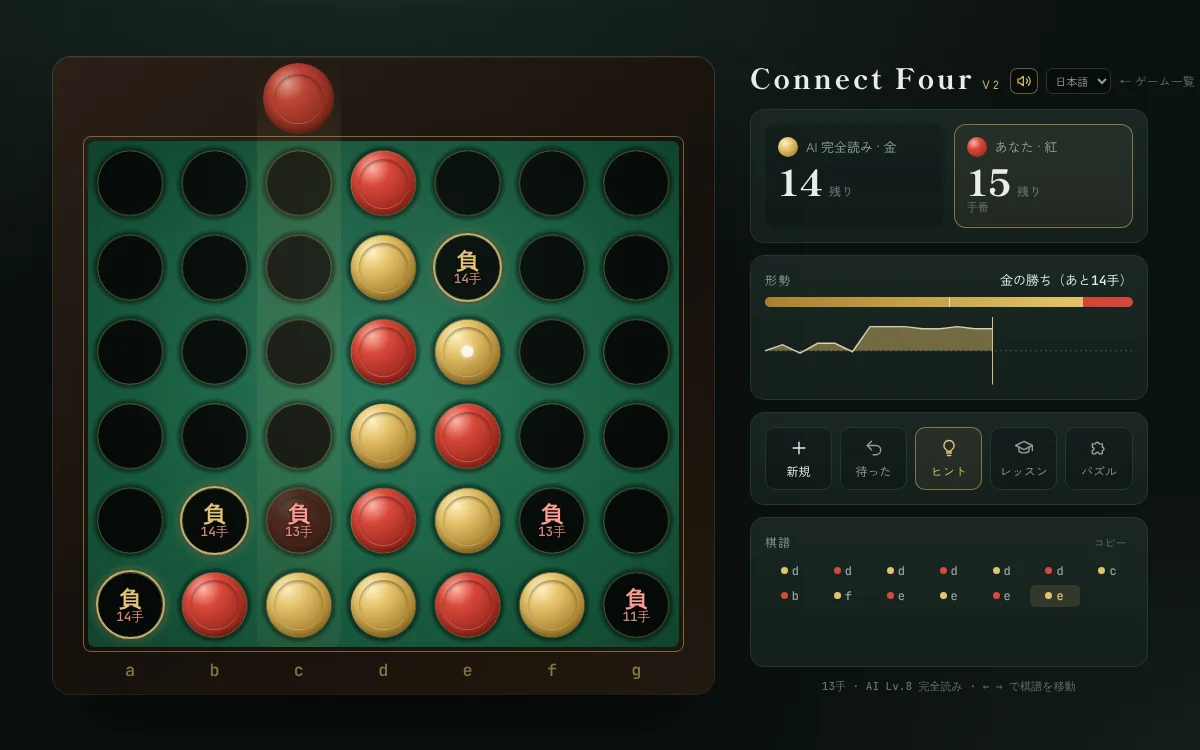
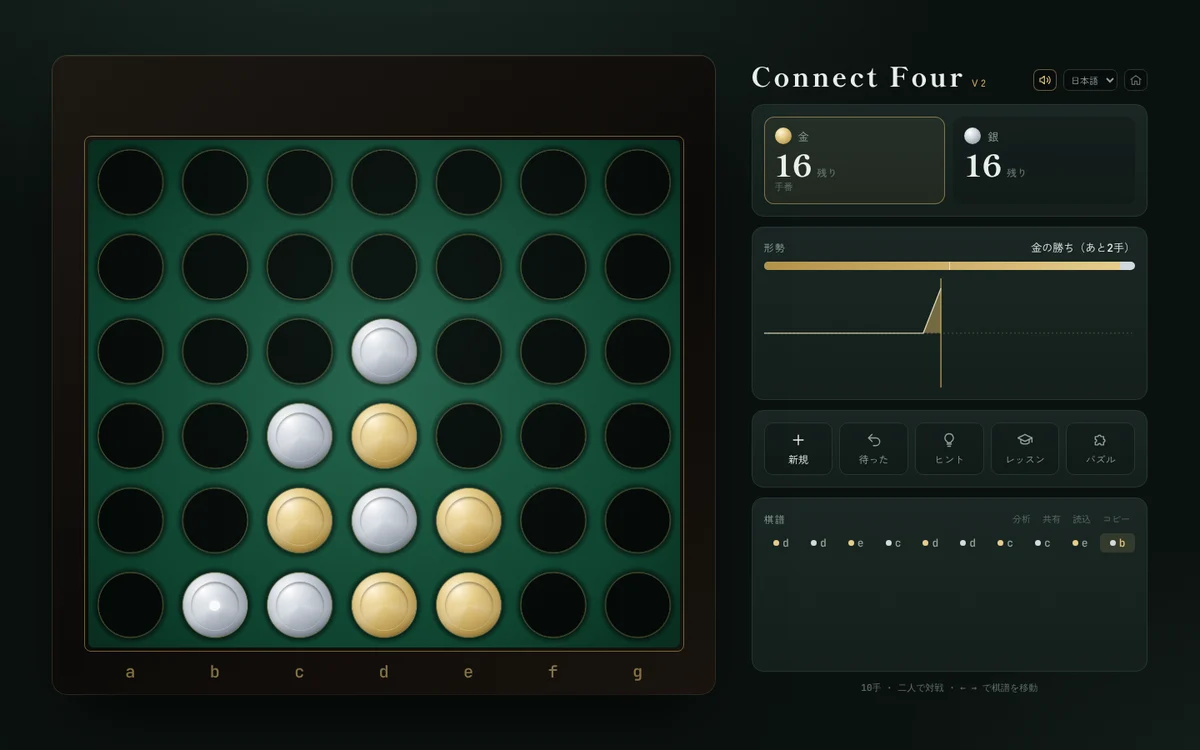
Connect Four: luxury gold vs platinum coins with metallic sheen, deeper felt and lacquer frame; UI accents, graph, threats and confetti matched; list thumbnail updated
Claude-Session: https://claude.ai/code/session_01Ky461YoVpACBBys6RwWYFn

diff --git a/connect4/i18n.js b/connect4/i18n.js
@@ -7,13 +7,13 @@ ja: { 'tab.lesson': 'レッスン', 'tab.puzzle': 'パズル',
   'share': '共有', 'share.title': '棋譜をURLで共有', 'share.copied': '共有URLをコピーしました',
   'paste': '読込', 'paste.title': '棋譜を読み込む', 'paste.desc': '棋譜（例：4453… または dd ec…）か共有URLを貼り付けてください。読み込むと二人対戦モードで開き、どこからでも打ち直せます。', 'paste.load': '読み込む', 'paste.bad': '{n}手目が打てない手です', 'paste.invalid': '棋譜を読み取れませんでした', 'paste.loaded': '{n}手の棋譜を読み込みました',
   'daily.title': '今日の一問', 'daily.streak': '連続{n}日', 'daily.best': '最高{n}日', 'daily.go': '挑戦', 'pz.labels': '盤上の数字は、その列から何手で勝てるかです。',
-  'meta.title': 'Connect Four V2 — コネクトフォー', 'back': 'ゲーム一覧', 'p1': '金', 'p2': '紅', 'left': '残り', 'you': 'あなた', 'defender': '守り手（完全読み）',
+  'meta.title': 'Connect Four V2 — コネクトフォー', 'back': 'ゲーム一覧', 'p1': '金', 'p2': '銀', 'left': '残り', 'you': 'あなた', 'defender': '守り手（完全読み）',
   'eval': '形勢', 'kifu': '棋譜', 'copy': 'コピー', 'copy.title': '棋譜をコピー', 'copied': '棋譜をコピーしました', 'nokifu': '棋譜なし', 'kifu.empty': 'まだ手がありません',
   'btn.new': '新規', 'btn.new.title': '新しい対局', 'btn.undo': '待った', 'btn.undo.title': '待った (Ctrl+Z)', 'btn.hint': 'ヒント', 'btn.hint.title': 'ヒント（各列の読み）',
   'btn.lesson': 'レッスン', 'btn.lesson.title': 'レッスン（考え方を学ぶ）', 'btn.puzzle': 'パズル', 'btn.puzzle.title': '詰めコネクトフォー', 'btn.sound.title': '効果音',
   'review.viewing': '{n}手目を確認中（全{m}手）', 'review.resume': 'ここから打つ', 'review.latest': '最新局面へ', 'review.hintResume': '過去の局面です。「ここから打つ」で再開できます',
   'ng.title': '新しい対局', 'ng.mode': '対戦形式', 'ng.ai': 'AIと対戦', 'ng.pvp': '二人で対戦', 'ng.watch': 'AI同士', 'ng.lesson': 'レッスン', 'ng.puzzle': 'パズル',
-  'ng.color': 'あなたの手番', 'ng.first': '先手（金）', 'ng.second': '後手（紅）', 'ng.random': 'ランダム', 'ng.level': 'AIの強さ', 'ng.level1': '先手AIの強さ', 'ng.level2': '後手AIの強さ',
+  'ng.color': 'あなたの手番', 'ng.first': '先手（金）', 'ng.second': '後手（銀）', 'ng.random': 'ランダム', 'ng.level': 'AIの強さ', 'ng.level1': '先手AIの強さ', 'ng.level2': '後手AIの強さ',
   'ng.display': '表示', 'opt.eval': '形勢表示', 'opt.last': '最終手', 'opt.anim': 'アニメーション', 'opt.threat': '脅威マスを表示', 'close': '閉じる', 'start': '対局開始',
   'ng.toLessons': 'レッスンを選ぶ', 'ng.toPuzzles': 'パズルを選ぶ',
   'res.review': '盤面を見る', 'res.again': 'もう一局', 'res.draw': '引き分け', 'res.youWin': 'あなたの勝ち', 'res.aiWin': 'AIの勝ち', 'res.pWin': '{c}の勝ち',
@@ -55,13 +55,13 @@ en: { 'tab.lesson': 'Lessons', 'tab.puzzle': 'Puzzles',
   'share': 'Share', 'share.title': 'Share the game as a URL', 'share.copied': 'Share URL copied',
   'paste': 'Load', 'paste.title': 'Load a game', 'paste.desc': 'Paste a move record (e.g. 4453… or dd ec…) or a share URL. It opens in 2-player mode so you can replay from any move.', 'paste.load': 'Load', 'paste.bad': 'Move {n} is illegal', 'paste.invalid': 'Could not read the move record', 'paste.loaded': 'Loaded {n} moves',
   'daily.title': 'Daily puzzle', 'daily.streak': '{n}-day streak', 'daily.best': 'best {n}', 'daily.go': 'Play', 'pz.labels': 'The numbers show how many moves each column needs to win.',
-  'meta.title': 'Connect Four V2', 'back': 'All games', 'p1': 'Gold', 'p2': 'Ruby', 'left': 'left', 'you': 'You', 'defender': 'Defender (perfect)',
+  'meta.title': 'Connect Four V2', 'back': 'All games', 'p1': 'Gold', 'p2': 'Silver', 'left': 'left', 'you': 'You', 'defender': 'Defender (perfect)',
   'eval': 'Evaluation', 'kifu': 'Moves', 'copy': 'Copy', 'copy.title': 'Copy the move record', 'copied': 'Move record copied', 'nokifu': 'No moves', 'kifu.empty': 'No moves yet',
   'btn.new': 'New', 'btn.new.title': 'New game', 'btn.undo': 'Undo', 'btn.undo.title': 'Undo (Ctrl+Z)', 'btn.hint': 'Hint', 'btn.hint.title': 'Hint (solver verdict per column)',
   'btn.lesson': 'Lessons', 'btn.lesson.title': 'Lessons (learn the ideas)', 'btn.puzzle': 'Puzzles', 'btn.puzzle.title': 'Win-in-N puzzles', 'btn.sound.title': 'Sound effects',
   'review.viewing': 'Reviewing move {n} of {m}', 'review.resume': 'Play from here', 'review.latest': 'Back to latest', 'review.hintResume': 'This is a past position. Use "Play from here" to continue',
   'ng.title': 'New game', 'ng.mode': 'Mode', 'ng.ai': 'vs AI', 'ng.pvp': '2 players', 'ng.watch': 'AI vs AI', 'ng.lesson': 'Lessons', 'ng.puzzle': 'Puzzles',
-  'ng.color': 'You play', 'ng.first': 'First (Gold)', 'ng.second': 'Second (Ruby)', 'ng.random': 'Random', 'ng.level': 'AI strength', 'ng.level1': 'First AI strength', 'ng.level2': 'Second AI strength',
+  'ng.color': 'You play', 'ng.first': 'First (Gold)', 'ng.second': 'Second (Silver)', 'ng.random': 'Random', 'ng.level': 'AI strength', 'ng.level1': 'First AI strength', 'ng.level2': 'Second AI strength',
   'ng.display': 'Display', 'opt.eval': 'Evaluation', 'opt.last': 'Last move', 'opt.anim': 'Animation', 'opt.threat': 'Show threats', 'close': 'Close', 'start': 'Start',
   'ng.toLessons': 'Choose a lesson', 'ng.toPuzzles': 'Choose a puzzle',
   'res.review': 'View board', 'res.again': 'Play again', 'res.draw': 'Draw', 'res.youWin': 'You win!', 'res.aiWin': 'AI wins', 'res.pWin': '{c} wins',
@@ -103,13 +103,13 @@ zh: { 'tab.lesson': '课程', 'tab.puzzle': '谜题',
   'share': '分享', 'share.title': '用链接分享棋谱', 'share.copied': '已复制分享链接',
   'paste': '导入', 'paste.title': '导入棋谱', 'paste.desc': '粘贴棋谱（如 4453… 或 dd ec…）或分享链接。导入后以双人模式打开，可从任意一步重新下。', 'paste.load': '导入', 'paste.bad': '第{n}步不合法', 'paste.invalid': '无法识别棋谱', 'paste.loaded': '已导入{n}步棋谱',
   'daily.title': '每日一题', 'daily.streak': '连续{n}天', 'daily.best': '最高{n}天', 'daily.go': '挑战', 'pz.labels': '棋盘上的数字表示从该列下需要几手获胜。',
-  'meta.title': 'Connect Four V2 — 四子棋', 'back': '游戏列表', 'p1': '金', 'p2': '红', 'left': '剩余', 'you': '你', 'defender': '防守方（完全计算）',
+  'meta.title': 'Connect Four V2 — 四子棋', 'back': '游戏列表', 'p1': '金', 'p2': '银', 'left': '剩余', 'you': '你', 'defender': '防守方（完全计算）',
   'eval': '形势', 'kifu': '棋谱', 'copy': '复制', 'copy.title': '复制棋谱', 'copied': '已复制棋谱', 'nokifu': '无棋谱', 'kifu.empty': '还没有落子',
   'btn.new': '新局', 'btn.new.title': '新对局', 'btn.undo': '悔棋', 'btn.undo.title': '悔棋 (Ctrl+Z)', 'btn.hint': '提示', 'btn.hint.title': '提示（每列的计算结果）',
   'btn.lesson': '课程', 'btn.lesson.title': '课程（学习思路）', 'btn.puzzle': '谜题', 'btn.puzzle.title': '四子棋残局题', 'btn.sound.title': '音效',
   'review.viewing': '正在查看第{n}手（共{m}手）', 'review.resume': '从这里继续', 'review.latest': '回到最新局面', 'review.hintResume': '这是过去的局面。点「从这里继续」即可继续',
   'ng.title': '新对局', 'ng.mode': '对战模式', 'ng.ai': '对战AI', 'ng.pvp': '双人对战', 'ng.watch': 'AI对AI', 'ng.lesson': '课程', 'ng.puzzle': '谜题',
-  'ng.color': '你的顺序', 'ng.first': '先手（金）', 'ng.second': '后手（红）', 'ng.random': '随机', 'ng.level': 'AI强度', 'ng.level1': '先手AI强度', 'ng.level2': '后手AI强度',
+  'ng.color': '你的顺序', 'ng.first': '先手（金）', 'ng.second': '后手（银）', 'ng.random': '随机', 'ng.level': 'AI强度', 'ng.level1': '先手AI强度', 'ng.level2': '后手AI强度',
   'ng.display': '显示', 'opt.eval': '形势显示', 'opt.last': '最后一手', 'opt.anim': '动画', 'opt.threat': '显示威胁格', 'close': '关闭', 'start': '开始对局',
   'ng.toLessons': '选择课程', 'ng.toPuzzles': '选择谜题',
   'res.review': '查看棋盘', 'res.again': '再来一局', 'res.draw': '平局', 'res.youWin': '你赢了', 'res.aiWin': 'AI获胜', 'res.pWin': '{c}方获胜',
@@ -132,7 +132,7 @@ zh: { 'tab.lesson': '课程', 'tab.puzzle': '谜题',
   'ls.threat.goal': '制造能带来胜利的威胁。', 'ls.threat.why': '下在 {m} 列会产生新的威胁（虚线圆圈）。这是唯一能赢的着法。', 'ls.threat.hint': '找一步下完后会出现“再下一子就连成四子”的空格的着法。虚线是你现有的威胁。',
   'ls.block.title': '挡住对手的威胁', 'ls.block.sub': '能下的胜利格一定要堵',
   'ls.block.intro': '<p>当对手有<b>马上就能下的胜利格</b>时，必须先把它堵住，其他好棋都要往后放。</p><p>反过来，如果在对手胜利格的<b>正下方</b>落子，对手下一手就能下在那里。</p><p class="note">不看漏对手的威胁，是变强的第一步。</p>',
-  'ls.block.goal': '找出不会输的一手。', 'ls.block.why': '{m} 列是对手马上就能连成四子的格子。不堵住的话下一手就会输。', 'ls.block.hint': '红色虚线是对手的威胁。哪一个现在就能下？',
+  'ls.block.goal': '找出不会输的一手。', 'ls.block.why': '{m} 列是对手马上就能连成四子的格子。不堵住的话下一手就会输。', 'ls.block.hint': '银色虚线是对手的威胁。哪一个现在就能下？',
   'ls.parity.title': '奇数行・偶数行理论', 'ls.parity.sub': '靠逼着（楚茨文格）取胜',
   'ls.parity.intro': '<p>棋盘有 7列×6行＝42格。如果后手总是下在先手棋子的<b>正上方</b>，后手就能拿到所有<b>偶数行（从下数第2・4・6行）</b>。先手要靠<b>奇数行（第1・3・5行）</b>的威胁来打破这一点。</p><p>所以在残局中，<b>先手的奇数行威胁</b>、<b>后手的偶数行威胁</b>最强：其他列填满后，对手迟早不得不下在威胁的正下方（逼着）。</p><p class="note">要制造威胁，就做在适合自己的行上。</p>',
   'ls.parity.goal': '在适合自己的行上制造威胁。', 'ls.parity.why': '下在 {m} 列会在对{c}方有利的行上形成威胁。随着其他列填满，对手终将不得不下在威胁的正下方。', 'ls.parity.hint': '先手瞄准奇数行（第1・3・5行），后手瞄准偶数行（第2・4・6行）的威胁。',
@@ -151,13 +151,13 @@ ko: { 'tab.lesson': '레슨', 'tab.puzzle': '퍼즐',
   'share': '공유', 'share.title': '기보를 URL로 공유', 'share.copied': '공유 URL을 복사했습니다',
   'paste': '불러오기', 'paste.title': '기보 불러오기', 'paste.desc': '기보(예: 4453… 또는 dd ec…)나 공유 URL을 붙여 넣으세요. 2인 대전 모드로 열려 어느 수에서든 다시 둘 수 있습니다.', 'paste.load': '불러오기', 'paste.bad': '{n}수째가 둘 수 없는 수입니다', 'paste.invalid': '기보를 읽을 수 없습니다', 'paste.loaded': '{n}수 기보를 불러왔습니다',
   'daily.title': '오늘의 문제', 'daily.streak': '{n}일 연속', 'daily.best': '최고 {n}일', 'daily.go': '도전', 'pz.labels': '판 위의 숫자는 그 열에서 몇 수 만에 이길 수 있는지입니다.',
-  'meta.title': 'Connect Four V2 — 커넥트 포', 'back': '게임 목록', 'p1': '금', 'p2': '홍', 'left': '남음', 'you': '나', 'defender': '수비(완전 해석)',
+  'meta.title': 'Connect Four V2 — 커넥트 포', 'back': '게임 목록', 'p1': '금', 'p2': '은', 'left': '남음', 'you': '나', 'defender': '수비(완전 해석)',
   'eval': '형세', 'kifu': '기보', 'copy': '복사', 'copy.title': '기보 복사', 'copied': '기보를 복사했습니다', 'nokifu': '기보 없음', 'kifu.empty': '아직 둔 수가 없습니다',
   'btn.new': '새 게임', 'btn.new.title': '새 대국', 'btn.undo': '무르기', 'btn.undo.title': '무르기 (Ctrl+Z)', 'btn.hint': '힌트', 'btn.hint.title': '힌트 (열마다 읽은 결과)',
   'btn.lesson': '레슨', 'btn.lesson.title': '레슨 (사고방식 배우기)', 'btn.puzzle': '퍼즐', 'btn.puzzle.title': '커넥트 포 박보', 'btn.sound.title': '효과음',
   'review.viewing': '{n}수째 확인 중 (전체 {m}수)', 'review.resume': '여기서 두기', 'review.latest': '최신 국면으로', 'review.hintResume': '지난 국면입니다. "여기서 두기"로 이어서 둘 수 있습니다',
   'ng.title': '새 대국', 'ng.mode': '대전 방식', 'ng.ai': 'AI와 대전', 'ng.pvp': '2인 대전', 'ng.watch': 'AI끼리', 'ng.lesson': '레슨', 'ng.puzzle': '퍼즐',
-  'ng.color': '내 차례', 'ng.first': '선수 (금)', 'ng.second': '후수 (홍)', 'ng.random': '랜덤', 'ng.level': 'AI 강도', 'ng.level1': '선수 AI 강도', 'ng.level2': '후수 AI 강도',
+  'ng.color': '내 차례', 'ng.first': '선수 (금)', 'ng.second': '후수 (은)', 'ng.random': '랜덤', 'ng.level': 'AI 강도', 'ng.level1': '선수 AI 강도', 'ng.level2': '후수 AI 강도',
   'ng.display': '표시', 'opt.eval': '형세 표시', 'opt.last': '마지막 수', 'opt.anim': '애니메이션', 'opt.threat': '위협 칸 표시', 'close': '닫기', 'start': '대국 시작',
   'ng.toLessons': '레슨 고르기', 'ng.toPuzzles': '퍼즐 고르기',
   'res.review': '판 보기', 'res.again': '한 판 더', 'res.draw': '무승부', 'res.youWin': '승리!', 'res.aiWin': 'AI 승리', 'res.pWin': '{c} 승리',

diff --git a/connect4/index.html b/connect4/index.html
@@ -19,11 +19,11 @@
 :root{
   --bg:#0b1110; --bg2:#121b19; --panel:#141f1c; --panel2:#1a2724; --line:#26372f;
   --text:#e8eee9; --muted:#8fa39a; --dim:#5d7068;
-  --felt:#1d6b4c; --felt2:#155238; --felt3:#0f3f2b;
+  --felt:#17573f; --felt2:#0e412e; --felt3:#07291c;
   --brass:#c9a961; --brass2:#8e7440;
   --accent:#e2c275; --red:#ff6b5b; --good:#7fd6a4;
-  --gold1:#fff1c2; --gold2:#e5c36c; --gold3:#a9812f; --gold4:#6d5020;
-  --ruby1:#ffb5a8; --ruby2:#d8483a; --ruby3:#9a271d; --ruby4:#561109;
+  --gold1:#fff6dc; --gold2:#e6cd8c; --gold3:#b39249; --gold4:#5e4720;
+  --ruby1:#ffffff; --ruby2:#d4d9e0; --ruby3:#8f97a3; --ruby4:#3c424b;   /* platinum (second player) */
   --vh: 100vh;
   --pad: clamp(28px, 7vmin, 100px);
   --gap: clamp(24px, 3vw, 48px);
@@ -64,7 +64,7 @@ button{font:inherit;color:inherit;cursor:pointer;border:none;background:none}
   position:relative;width:var(--fw);height:var(--fh);
   padding:calc(var(--cell) * var(--top)) calc(var(--cell)*0.42) calc(var(--cell)*0.55);
   border-radius:18px;
-  background:linear-gradient(145deg,#2a2018 0%,#16100b 55%,#22190f 100%);
+  background:linear-gradient(145deg,#1d1813 0%,#0c0a08 55%,#19140e 100%);
   box-shadow:0 40px 80px -30px rgba(0,0,0,.85),0 0 0 1px rgba(201,169,97,.25),inset 0 1px 0 rgba(255,255,255,.06);
   user-select:none;-webkit-user-select:none;touch-action:manipulation;
 }
@@ -76,8 +76,8 @@ button{font:inherit;color:inherit;cursor:pointer;border:none;background:none}
 .discs{position:absolute;inset:0}
 .disc{position:absolute;width:calc(var(--cell)*0.84);height:calc(var(--cell)*0.84);margin:calc(var(--cell)*0.08);border-radius:50%;will-change:transform}
 .disc::before{content:"";position:absolute;inset:16%;border-radius:50%;box-shadow:inset 0 2px 3px rgba(0,0,0,.35),0 1px 0 rgba(255,255,255,.25)}
-.disc.p1{background:radial-gradient(circle at 34% 28%,var(--gold1) 0%,var(--gold2) 26%,var(--gold3) 68%,var(--gold4) 100%);box-shadow:inset 0 -4px 8px rgba(0,0,0,.35)}
-.disc.p2{background:radial-gradient(circle at 34% 28%,var(--ruby1) 0%,var(--ruby2) 26%,var(--ruby3) 68%,var(--ruby4) 100%);box-shadow:inset 0 -4px 8px rgba(0,0,0,.4)}
+.disc.p1{background:conic-gradient(from 200deg at 50% 50%,rgba(255,255,255,0) 0deg,rgba(255,255,255,.22) 40deg,rgba(255,255,255,0) 90deg,rgba(255,255,255,0) 220deg,rgba(255,255,255,.14) 260deg,rgba(255,255,255,0) 300deg),radial-gradient(circle at 34% 28%,var(--gold1) 0%,var(--gold2) 26%,var(--gold3) 68%,var(--gold4) 100%);box-shadow:inset 0 -4px 8px rgba(0,0,0,.35),inset 0 0 0 1.5px rgba(255,240,200,.35)}
+.disc.p2{background:conic-gradient(from 200deg at 50% 50%,rgba(255,255,255,0) 0deg,rgba(255,255,255,.28) 40deg,rgba(255,255,255,0) 90deg,rgba(255,255,255,0) 220deg,rgba(255,255,255,.18) 260deg,rgba(255,255,255,0) 300deg),radial-gradient(circle at 34% 28%,var(--ruby1) 0%,var(--ruby2) 26%,var(--ruby3) 68%,var(--ruby4) 100%);box-shadow:inset 0 -4px 8px rgba(0,0,0,.4),inset 0 0 0 1.5px rgba(255,255,255,.4)}
 .disc.last::after{content:"";position:absolute;left:50%;top:50%;width:16%;height:16%;transform:translate(-50%,-50%);border-radius:50%;background:rgba(255,255,255,.85);box-shadow:0 0 6px rgba(255,255,255,.8)}
 .board.hide-last .disc.last::after{display:none}
 .disc.ghost{opacity:.32;pointer-events:none}
@@ -110,7 +110,7 @@ button{font:inherit;color:inherit;cursor:pointer;border:none;background:none}
 .mark.ok{border-color:var(--accent);box-shadow:0 0 14px rgba(226,194,117,.7)}
 .mark.ng{border-color:#ff6b5b}
 .mark.threat{border:2px dashed rgba(255,255,255,.75);width:calc(var(--cell)*0.6);height:calc(var(--cell)*0.6);margin:calc(var(--cell)*0.2)}
-.mark.threat.op{border-color:rgba(255,107,91,.85)}
+.mark.threat.op{border-color:rgba(214,220,228,.9)}
 .winring{position:absolute;width:calc(var(--cell)*0.8);height:calc(var(--cell)*0.8);margin:calc(var(--cell)*0.1);border-radius:50%;border:3px solid #fff3cf;box-shadow:0 0 18px rgba(255,236,170,.85),inset 0 0 12px rgba(255,236,170,.6);pointer-events:none;z-index:8;animation:winp 1.1s ease-in-out infinite}
 @keyframes winp{50%{transform:scale(1.08);box-shadow:0 0 28px rgba(255,236,170,1),inset 0 0 18px rgba(255,236,170,.8)}}
 .winline{position:absolute;inset:0;z-index:9;pointer-events:none;overflow:visible}
@@ -881,7 +881,7 @@ function renderFx() {
   // threats (optional display)
   if (settings.threat && !st.winner && !lesson) {
     for (const p of [P1, P2]) for (const [c, r] of emptyThreats(gridOf(shown), p)) {
-      const d = document.createElement('div'); d.className = 'mark threat' + (p === P2 ? ' op' : ''); d.style.borderColor = p === P1 ? 'rgba(229,195,108,.9)' : 'rgba(216,72,58,.95)';
+      const d = document.createElement('div'); d.className = 'mark threat' + (p === P2 ? ' op' : ''); d.style.borderColor = p === P1 ? 'rgba(230,205,140,.9)' : 'rgba(212,217,224,.95)';
       discPos(d, c, r); fxEl.appendChild(d);
     }
   }
@@ -1014,7 +1014,7 @@ function renderGraph() {
   const cx = cur / (n - 1) * W;
   svg.innerHTML = `<defs><clipPath id="ctop"><rect x="0" y="0" width="${W}" height="${H / 2}"/></clipPath><clipPath id="cbot"><rect x="0" y="${H / 2}" width="${W}" height="${H / 2}"/></clipPath></defs>
     <path d="${area}" fill="rgba(229,195,108,.45)" clip-path="url(#ctop)"/>
-    <path d="${area}" fill="rgba(216,72,58,.45)" clip-path="url(#cbot)"/>
+    <path d="${area}" fill="rgba(200,206,214,.38)" clip-path="url(#cbot)"/>
     <line class="zero" vector-effect="non-scaling-stroke" x1="0" x2="${W}" y1="${H / 2}" y2="${H / 2}"/>
     <path d="${path}" fill="none" stroke="rgba(240,230,200,.85)" stroke-width="1.4" vector-effect="non-scaling-stroke"/>
     <line class="cur" x1="${cx}" x2="${cx}" y1="0" y2="${H}" vector-effect="non-scaling-stroke"/>`;
@@ -1167,7 +1167,7 @@ function showOverlay(s) { $(s).classList.add('show'); }
 function hideOverlay(s) { $(s).classList.remove('show'); }
 function confetti() {
   if (!settings.anim || reduceMotion) return;
-  const cols = ['#e5c36c', '#fff1c2', '#d8483a', '#ffb5a8', '#6fd3a0'];
+  const cols = ['#e6cd8c', '#fff6dc', '#d4d9e0', '#ffffff', '#b39249'];
   for (let i = 0; i < 70; i++) {
     const c = document.createElement('div'); c.className = 'confetti';
     c.style.left = Math.random() * 100 + 'vw'; c.style.background = cols[i % cols.length];
@@ -1292,7 +1292,7 @@ function miniBoardSVG(cells, marks) {
   let s = `<svg class="mini" viewBox="0 0 ${7 * cs + 12} ${6 * cs + 12}"><rect x="0" y="0" width="${7 * cs + 12}" height="${6 * cs + 12}" rx="8" fill="#1d6b4c" stroke="rgba(201,169,97,.5)"/>`;
   for (let c = 0; c < 7; c++) for (let r = 0; r < 6; r++) {
     const v = g[c][r] || 0, x = 6 + c * cs + cs / 2, y = 6 + (5 - r) * cs + cs / 2;
-    const fill = v === 1 ? '#e5c36c' : v === 2 ? '#d8483a' : '#08110e';
+    const fill = v === 1 ? '#e6cd8c' : v === 2 ? '#d4d9e0' : '#08110e';
     s += `<circle cx="${x}" cy="${y}" r="${cs * 0.4}" fill="${fill}"/>`;
   }
   for (const mk of marks || []) { const x = 6 + mk[0] * cs + cs / 2, y = 6 + (5 - mk[1]) * cs + cs / 2; s += `<circle cx="${x}" cy="${y}" r="${cs * 0.36}" fill="none" stroke="${mk[2] || '#fff'}" stroke-width="2.4" stroke-dasharray="${mk[3] ? '4 3' : ''}"/>`; }
